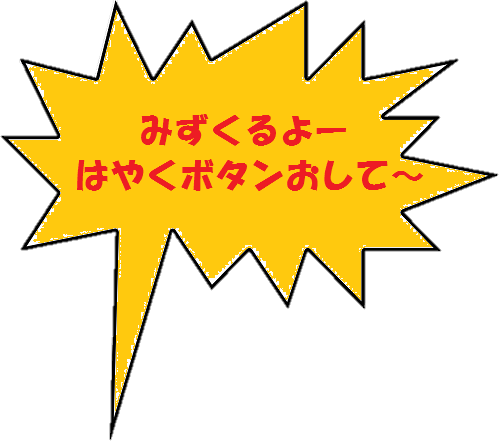
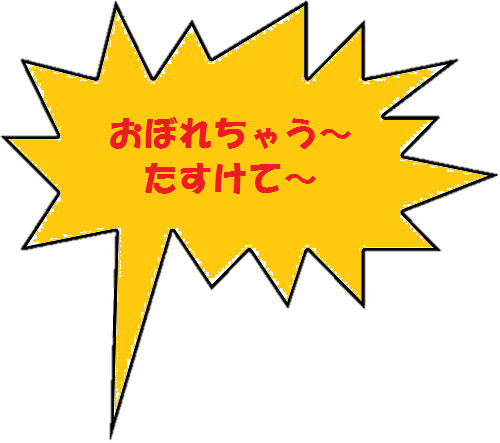
お姫様吹き出し、easy mode

diff --git a/ar2016/include/game/single_player_game.h b/ar2016/include/game/single_player_game.h
@@ -1191,48 +1191,62 @@ class SinglePlayerGame : public Game {
 		int frameCount;
 		std::string message;
 		bool isDrowned = false;
+		
 
 	public:
 		static const int width = 621/8;
 		static const int height = 1046/8;
 
 		Player(int x_, int y_, int width_, int height_, std::string imgHandleKey_, int maxDamage_, SinglePlayerGame& game_) : Character(x_, y_, width_, height_, imgHandleKey_, maxDamage_, game_, 0, FPS*2) {
-			layer = 100;	
+			layer = 100;
 			// overBuffer = overBufferMax;
 		}
 
 		bool draw() {
-			if (isToJump && !isDrowned) {
+			if (isToJump && !isDrowned && damage <= (maxDamage-2) && game.timer >= 300) {
 
 				if (frameCount <= FPS * 2) {
-					DrawExtendGraph(left() - 100, top() - rect.height - 50, right(), bottom() - rect.height, imgHandles["s_game_fighting"], true);
-				}
-				else if (frameCount <= FPS * 2 + FPS) {
-					DrawExtendGraph(left() - 100, top() - rect.height - 50, right(), bottom() - rect.height, imgHandles["s_game_handsome"], true);
-				}
-				else if (frameCount <= FPS * 2 + FPS*2) {
-					DrawExtendGraph(left() - 50, top() - rect.height - 50, right() + 50, bottom() - rect.height, imgHandles["s_game_jump"], true);
-				}
-				else if (frameCount <= FPS * 2 + FPS*3) {
-					DrawExtendGraph(left() - 50, top() - rect.height - 50, right() + 50, bottom() - rect.height, imgHandles["s_game_3"], true);
-				}
-				else if (frameCount <= FPS * 2 + FPS*4) {
-					DrawExtendGraph(left() - 50, top() - rect.height - 50, right() + 50, bottom() - rect.height, imgHandles["s_game_2"], true);
-				}
-				else if (frameCount <= FPS * 2 + FPS*5) {
-					DrawExtendGraph(left() - 50, top() - rect.height - 50, right() + 50, bottom() - rect.height, imgHandles["s_game_1"], true);
+					if (game.timer >= 2600) {
+						DrawExtendGraph(left() - 100, top() - rect.height - 50, right(), bottom() - rect.height, imgHandles["s_game_fighting"], true);
+					}
+					else if (game.timer >= 1600) {
+						DrawExtendGraph(left() - 100, top() - rect.height - 50, right(), bottom() - rect.height, imgHandles["s_game_handsome"], true);
+					}
+					else {
+						DrawExtendGraph(left() - 100, top() - rect.height - 50, right(), bottom() - rect.height, imgHandles["s_game_cake"], true);
+					}
 				}
 
-				
+				else if (frameCount <= FPS * 2 + FPS*5 && frameCount >= FPS * 2 + FPS * 4) {
+					DrawExtendGraph(left() - 50, top() - rect.height - 50, right() + 50, bottom() - rect.height, imgHandles["s_game_jump"], true);
+				}
+				else if (frameCount <= FPS * 2 + FPS*6 && frameCount >= FPS * 2 + FPS * 5) {
+					DrawExtendGraph(left() - 50, top() - rect.height - 50, right() + 50, bottom() - rect.height, imgHandles["s_game_3"], true);
+				}
+				else if (frameCount <= FPS * 2 + FPS*7 && frameCount >= FPS * 2 + FPS * 6) {
+					DrawExtendGraph(left() - 50, top() - rect.height - 50, right() + 50, bottom() - rect.height, imgHandles["s_game_2"], true);
+				}
+				else if (frameCount <= FPS * 2 + FPS*8 && frameCount >= FPS * 2 + FPS * 7) {
+					DrawExtendGraph(left() - 50, top() - rect.height - 50, right() + 50, bottom() - rect.height, imgHandles["s_game_1"], true);
+				}		
 			}
+
+			
 			for (int heart = 0; heart <= (maxDamage - damage - 1); heart++) {
 				DrawExtendGraph(50 + 50 * heart, 50, 100 + 50 * heart, 100, imgHandles["s_game_heart"], true);
+			}
+			if (damage > (maxDamage - 2) && !isDrowned && game.timer >= 300) {
+				DrawExtendGraph(left() - 50, top() - rect.height - 50, right() + 50, bottom() - rect.height, imgHandles["s_game_help"], true);
 			}
 
 			if (isDrowned) { 
 				DrawExtendGraph(left() - 100, top() - rect.height - 50, right(), bottom() - rect.height, imgHandles["s_game_dangerous"], true);
 				imgHandle[DAMAGE] = imgHandles["s_game_player_drowned"]; }
 			else { imgHandle[DAMAGE] = imgHandles["s_game_player_damage"]; }
+
+			if (game.timer < 300 && !isDrowned) {
+				DrawExtendGraph(left() - 50, top() - rect.height - 50, right() + 50, bottom() - rect.height, imgHandles["s_game_beforefinish"], true);
+			}
 
 			Character::draw();
 
@@ -1313,7 +1327,7 @@ class SinglePlayerGame : public Game {
 			}
 
 			if (isToJump) {
-				if (frameCount >= FPS*2 + FPS*5) {
+				if (frameCount >= FPS*2 + FPS*8) {
 					acY = -30;
 					PlaySoundMem(soundHandles["s_game_jump"], DX_PLAYTYPE_BACK, true);
 					isJumping = true;
@@ -1494,7 +1508,7 @@ class SinglePlayerGame : public Game {
 	}
 
 	std::shared_ptr<BGM> bgm;
-	const int maxTime = FPS * 60;
+	const int maxTime = FPS * 60 * 2;
 
 	int maxPlayerDamage;
 

diff --git a/ar2016/src/game/single_game_player.cpp b/ar2016/src/game/single_game_player.cpp
@@ -155,7 +155,7 @@ bool SinglePlayerGame::onStart() {
 	
 	// GAME
 	mode.setMode([this]() {
-		maxPlayerDamage = difficulty == EASY ? 5 : difficulty == HARD ? 10 : 20;
+		maxPlayerDamage = difficulty == EASY ? 10 : difficulty == HARD ? 10 : 20;
 		player = std::make_shared<Player>(WIDTH / 2 - 100 / 2, HEIGHT / 2 - 150 / 2, Player::width, Player::height, "s_game_player", maxPlayerDamage, *this);
 
 		drawList.clear();
@@ -416,39 +416,30 @@ bool SinglePlayerGame::onUpdate() {
 				makeEagle(0, 0, 1);
 				break;
 			}
-			case 200: {
-				makeCloud(0, 50, 1);
-				break;
-			}
-			case 300: {
-				//makeUfo(0, 50, 1);
-				break;
-			}
 			case 600: {
 				makeRocketWanwan(-RocketWanwan::width / 2, HEIGHT / 2 + 50);
 				break;
 			}
-			case 900: {
+			case 1000: {
 				makeInundation();
 			}
-			case 950: {
-				//makeCloud(0, 50, 1);
-				break;
-			}
-			case 1100: {
-				makeUfo(0, 50, 1);
-				break;
-			}
-			case 1260: {
-				makeEagle(0, 0, 1);
-				break;
-			}
-			case 1400: {
-			}
-			case 1600: {
+			case 2000: {
 				makeHeiho(WIDTH, 300, 1);
 				break;
 			}
+			case 2300: {
+				makeUfo(0, 50, 1);
+				break;
+			}
+			case 2800: {
+				makeCloud(0, 50, 1);
+				break;
+			}
+
+			case 3400: {
+				makeHeiho(WIDTH, 300, 1);
+				break;
+		    }
 			default: {
 			}
 			}

diff --git a/ar2016/src/object/object.cpp b/ar2016/src/object/object.cpp
@@ -113,15 +113,18 @@ bool Object::load() {
 	isSuccess &= loadImage("s_game_fire_damage", "s_game/fire2");
 	isSuccess &= loadImage("s_game_fire_over", "s_game/fire2");
 
-	isSuccess &= loadImage("s_game_balloon", "s_game/balloon");
+	//isSuccess &= loadImage("s_game_balloon", "s_game/balloon");
 	isSuccess &= loadImage("s_game_dangerous", "s_game/dangerous");
-	isSuccess &= loadImage("s_game_letsplay", "s_game/letsplay");
+	//isSuccess &= loadImage("s_game_letsplay", "s_game/letsplay");
 	isSuccess &= loadImage("s_game_handsome", "s_game/handsome");
 	isSuccess &= loadImage("s_game_fighting", "s_game/fighting");
+	isSuccess &= loadImage("s_game_cake", "s_game/cake");
 	isSuccess &= loadImage("s_game_3", "s_game/three");
 	isSuccess &= loadImage("s_game_2", "s_game/two");
 	isSuccess &= loadImage("s_game_1", "s_game/one");
 	isSuccess &= loadImage("s_game_jump", "s_game/jump");
+	isSuccess &= loadImage("s_game_beforefinish", "s_game/beforefinish");
+	isSuccess &= loadImage("s_game_help", "s_game/help");
 
 	isSuccess &= loadImage("s_game_drop", "s_game/drop");
 	isSuccess &= loadImage("s_game_drop_damage", "s_game/drop");
